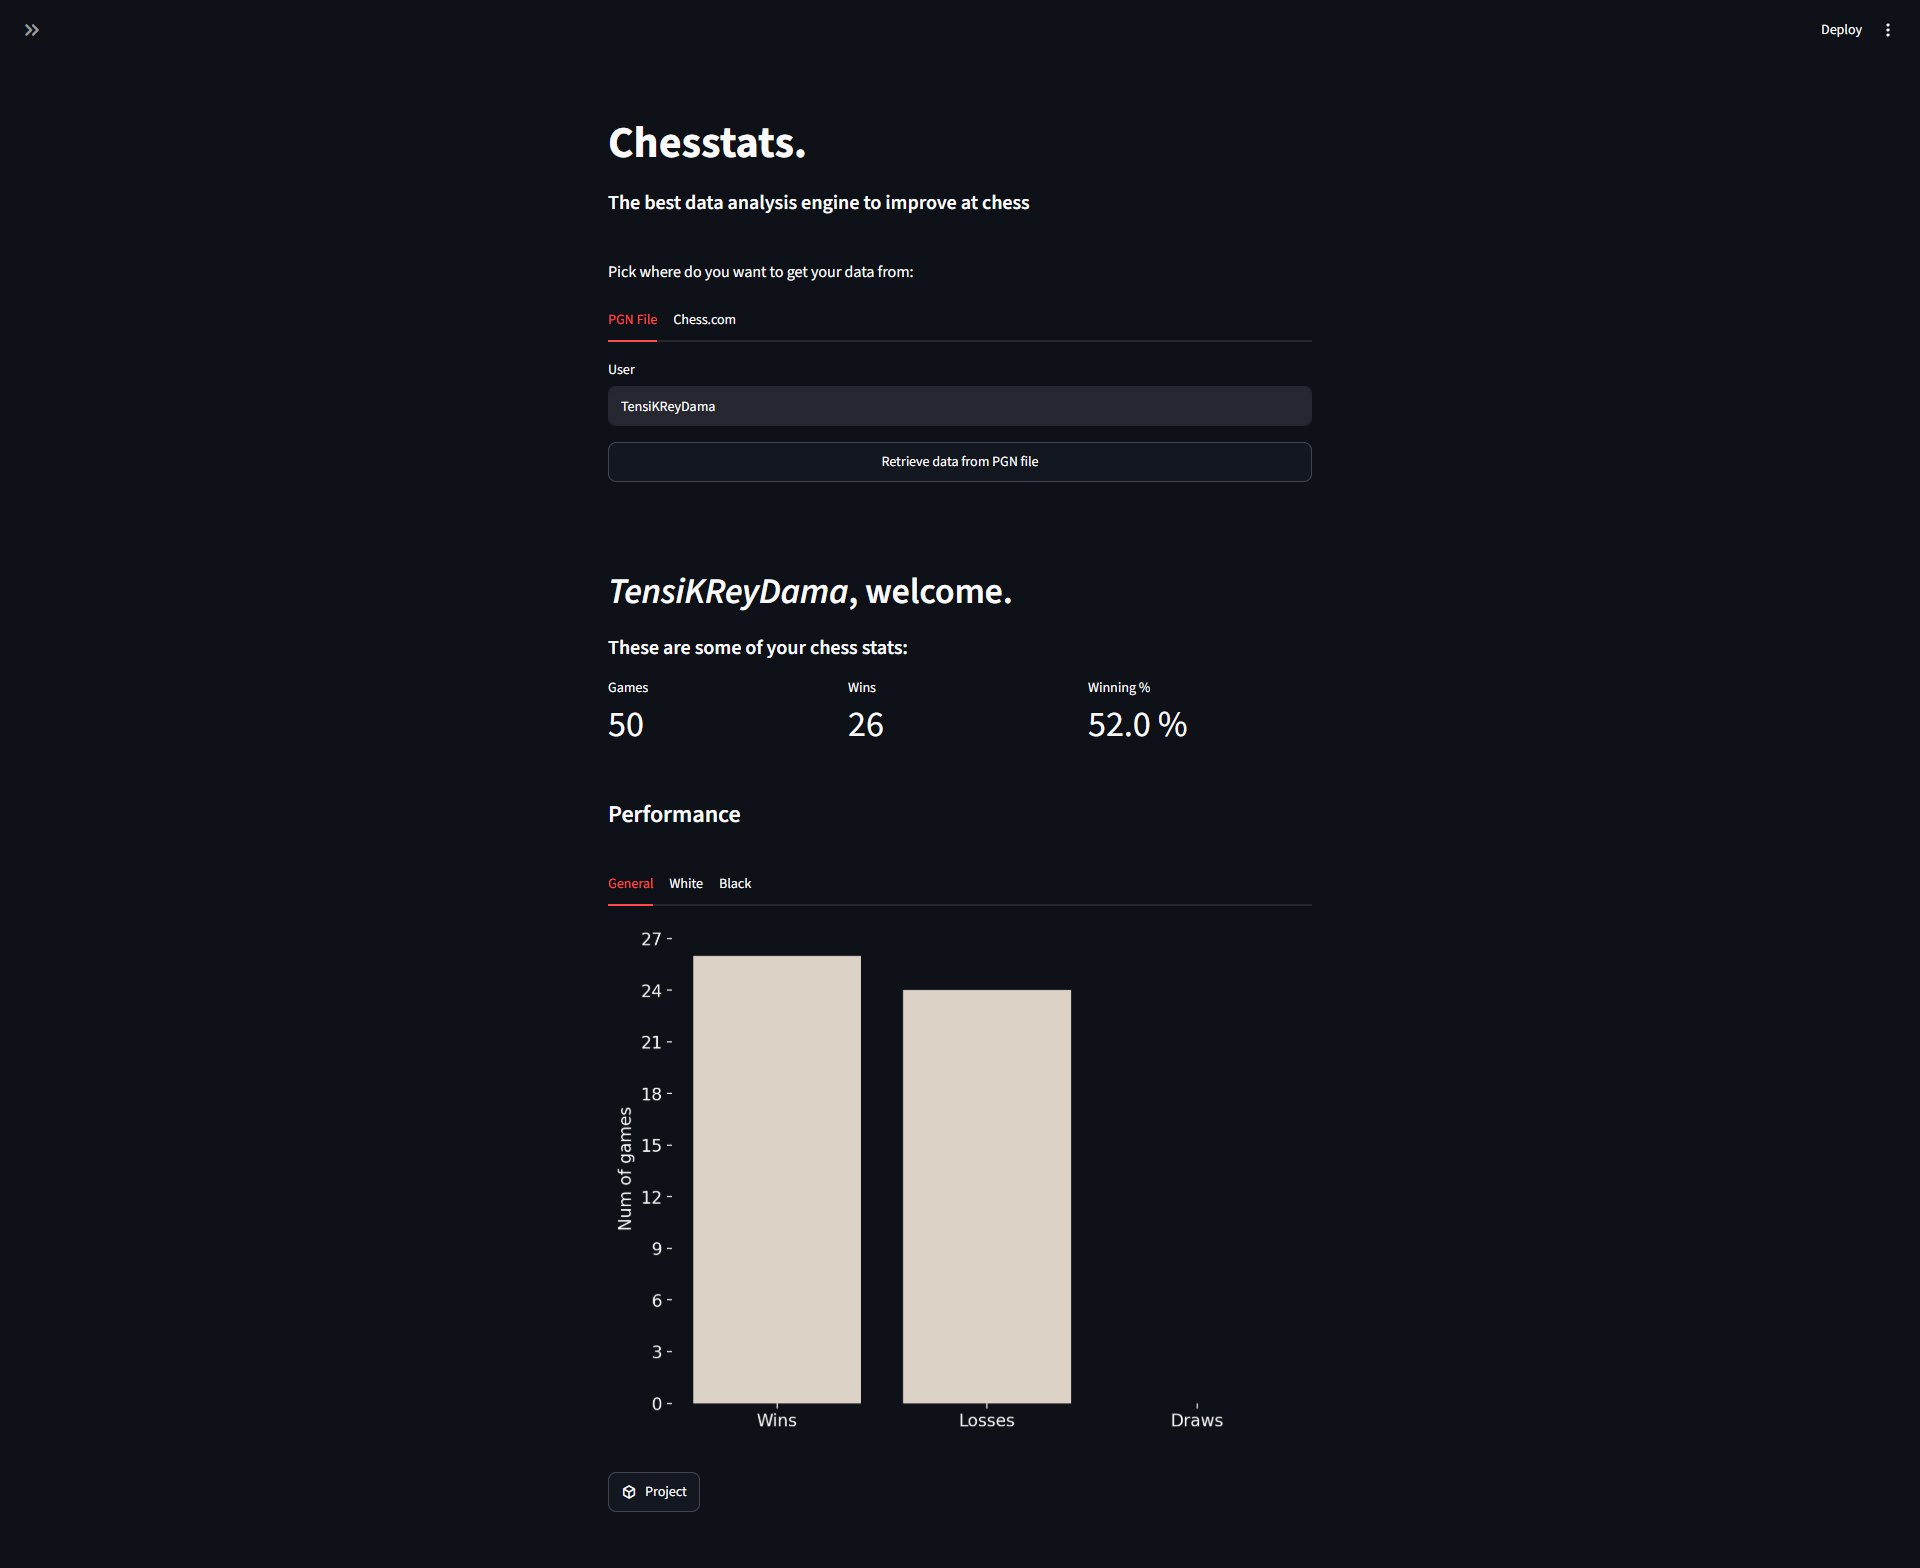
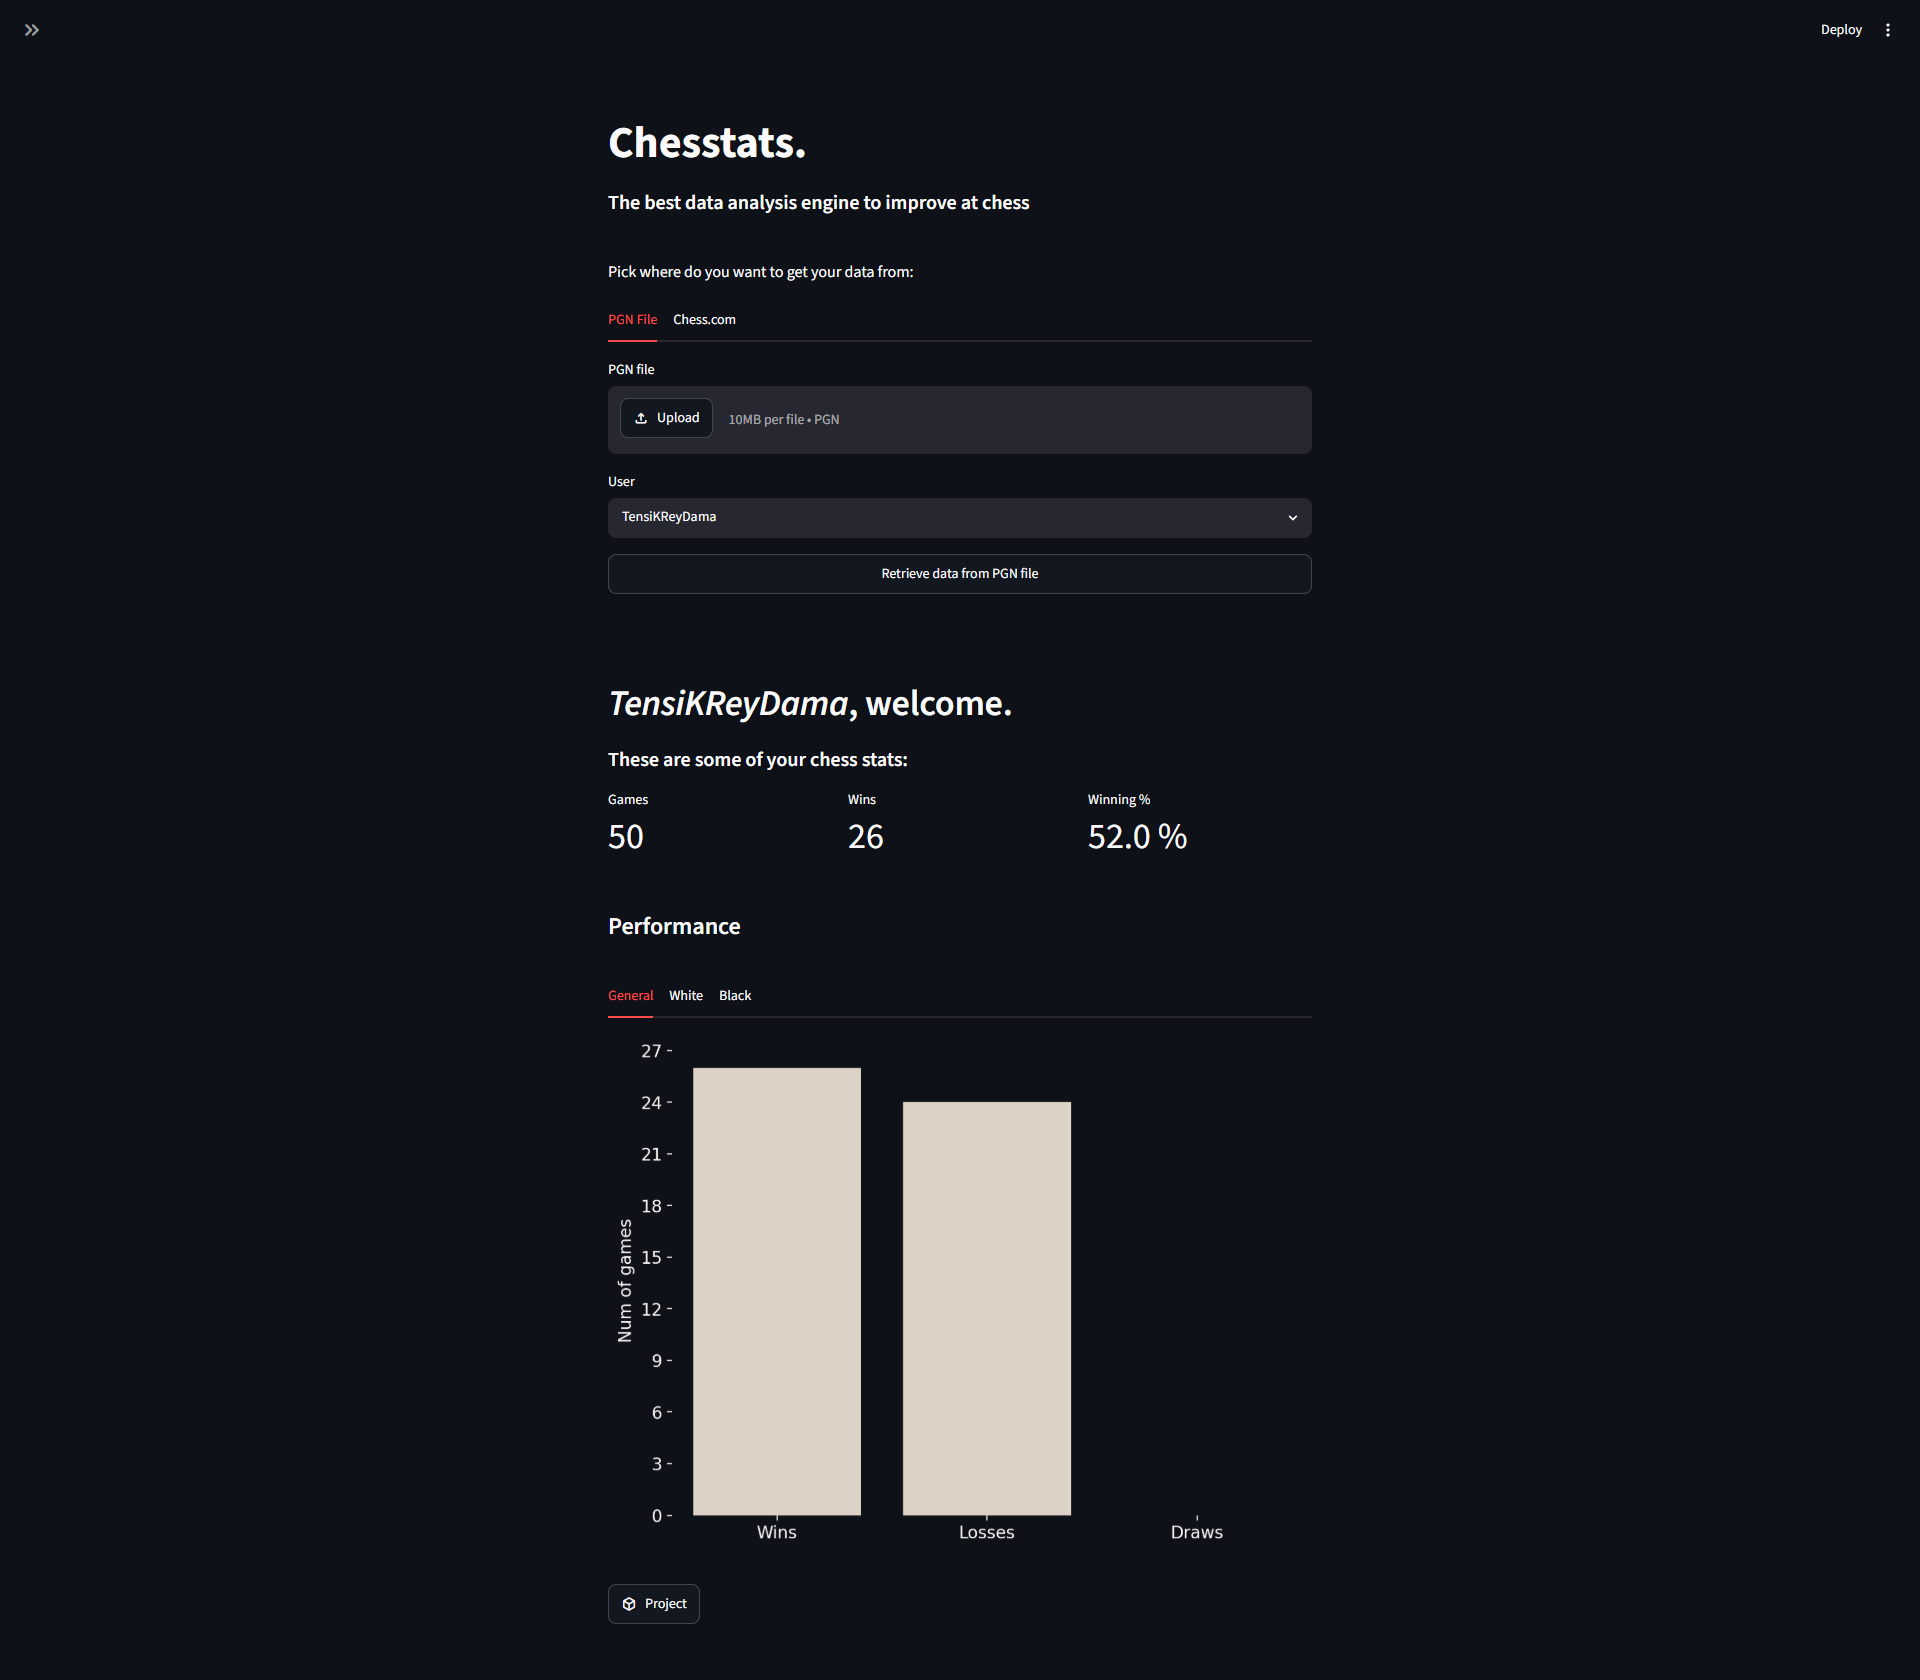
Add PGN upload and player selection
Allow uploading a .pgn file and selecting a player from that file. dashboard.py: add file_uploader, read uploaded PGN into StringIO, populate player selectbox using general.get_players_list, thread pgn_file through data_from_pgn, add default_pgn_file helper, and fix session_state games initialization indentation. general.py: add get_players_list(pgn) to extract unique players from games and remove an unused streamlit import. Binary assets updated (__pycache__ and dashboard image) as part of the changeset.

diff --git a/dashboard.py b/dashboard.py
@@ -13,13 +13,13 @@ if "pgn_file" not in st.session_state:
 if "player" not in st.session_state:
     st.session_state["player"] = Player(st.session_state["username"], st.session_state["pgn_file"])
 if "games" not in st.session_state:
-        st.session_state["games"] = general.build_games_list(st.session_state["pgn_file"])
-
-def data_from_pgn(username):
-    st.session_state["username"] = username
-    st.session_state["pgn_file"] = general.pgn_file
-    st.session_state["player"] = Player(username, general.pgn_file)
     st.session_state["games"] = general.build_games_list(st.session_state["pgn_file"])
+
+def data_from_pgn(username, pgn_file):
+    st.session_state["username"] = username
+    st.session_state["pgn_file"] = pgn_file
+    st.session_state["player"] = Player(username, pgn_file)
+    st.session_state["games"] = general.build_games_list(pgn_file)
 
 def data_from_chesscom(username, months):
     with st.spinner(f"Downloading {username} last {months} games from Chess.com... (this may take a few seconds)"):
@@ -31,6 +31,9 @@ def data_from_chesscom(username, months):
         except Exception as e:
             st.error(f"Player's data not found on Chess.com: {e}")
 
+def default_pgn_file():
+    st.session_state["pgn_file"] = general.pgn_file
+
 #Título
 st.write("# **Chesstats.**")
 st.write("##### The best data analysis engine to improve at chess")
@@ -40,9 +43,14 @@ st.write("Pick where do you want to get your data from: ")
 tab1, tab2 = st.tabs(["PGN File", "Chess.com"])
 with tab1:
     #Usuario
-    username = st.text_input(label="User", value=st.session_state["username"], placeholder="Type a username")
-    st.button("Retrieve data from PGN file", on_click=data_from_pgn, kwargs={"username": username}, width="stretch", key="pgn_button")
-    
+    pgn_file = st.session_state["pgn_file"]  
+    uploaded_file = st.file_uploader(label="PGN file", type=".pgn", max_upload_size=10, accept_multiple_files=False, on_change=default_pgn_file)
+    with st.spinner(f"Downloading games from uploaded PGN file... (this may take a few seconds)"):
+        if uploaded_file:
+            pgn_file = StringIO(uploaded_file.getvalue().decode("utf-8"))            
+    username = st.selectbox(label="User", placeholder="Type a username", options=general.get_players_list(pgn_file))
+    st.button("Retrieve data from PGN file", on_click=data_from_pgn, kwargs={"username": username, "pgn_file": pgn_file}, width="stretch", key="pgn_button")
+
 with tab2:
     col1,col2 = st.columns(2) 
     username = col1.text_input(label="User", value=st.session_state["username"], placeholder="Type a Chess.com username")

diff --git a/general.py b/general.py
@@ -2,7 +2,6 @@ import chess
 import chess.pgn
 from ChessGame import ChessGame
 import chessdotcom
-import streamlit as st
 
 chessdotcom.Client.request_config["headers"]["User-Agent"] = ("ChesstatsApp"
     "Contact me at [email redacted]")
@@ -68,6 +67,15 @@ def get_opening_stats(games):
             opening_stats[first_move] = {"win": 0, "draw": 0, "loss": 0}
         opening_stats[first_move][result] += 1
     return opening_stats
+
+def get_players_list(pgn):
+    games = build_games_list(pgn)
+    player_list = []
+    for game in games:
+        player_list.append(game.get_white())
+        player_list.append(game.get_black())
+    player_list = set(player_list)
+    return player_list    
 
 pgn_file = open("chess_games.pgn", encoding="utf-8")
 user = "TensiKReyDama"